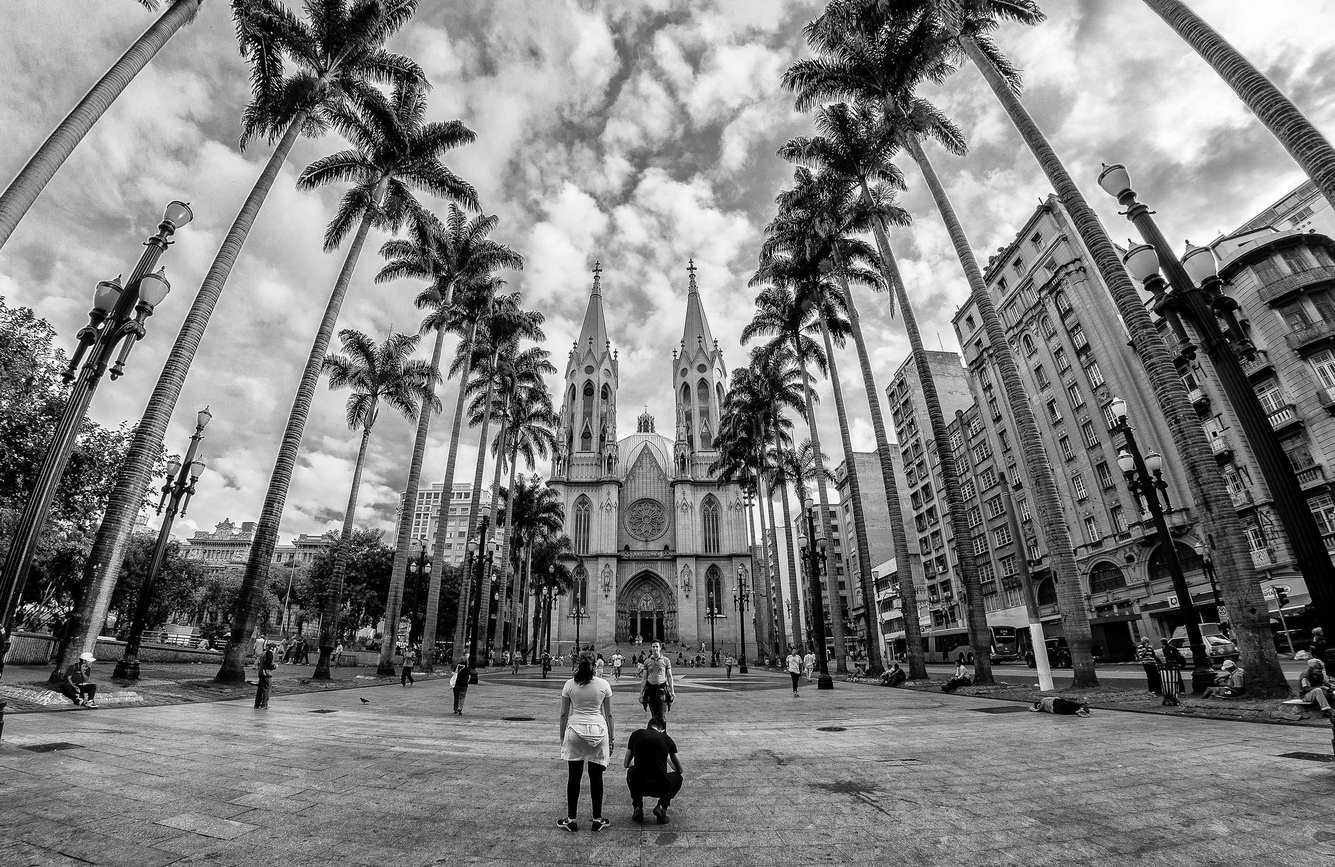
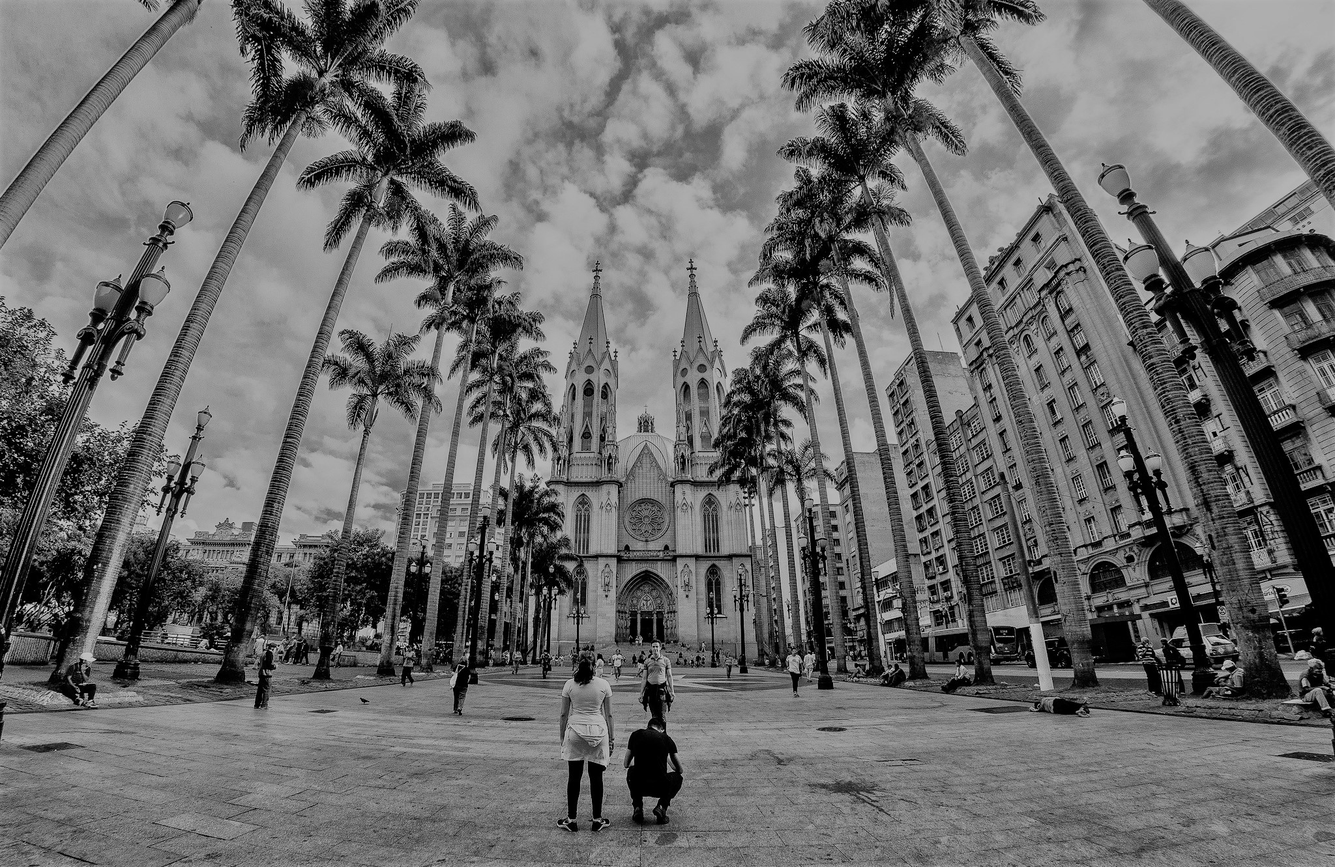
new photo history

diff --git a/style.css b/style.css
@@ -82,7 +82,7 @@ body{
 }
 
 .historyImg{
-  background-image: url("images/History/ItaliaBuilding50s.jpg");
+  background-image: url("images/History/Main-CathedralDaSe.jpg");
 }
 
 .cultureImg{
